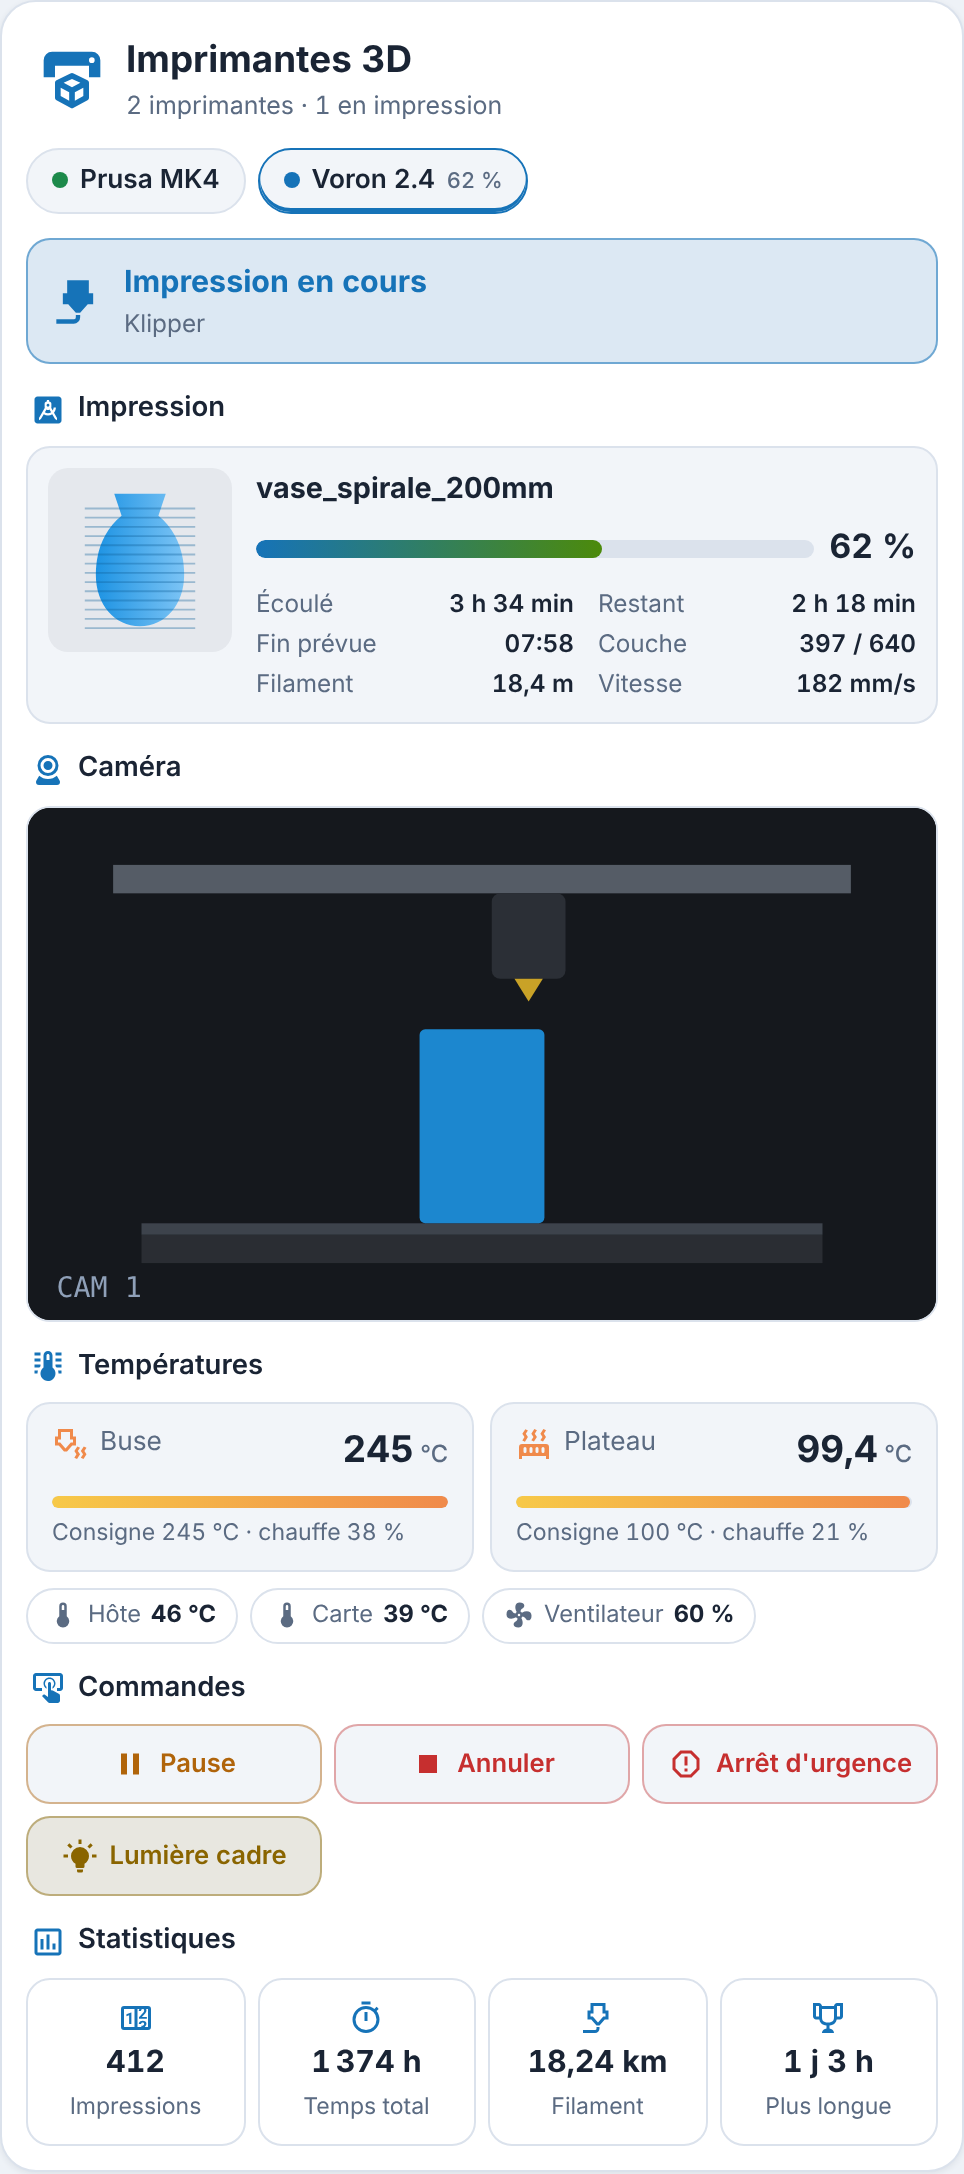
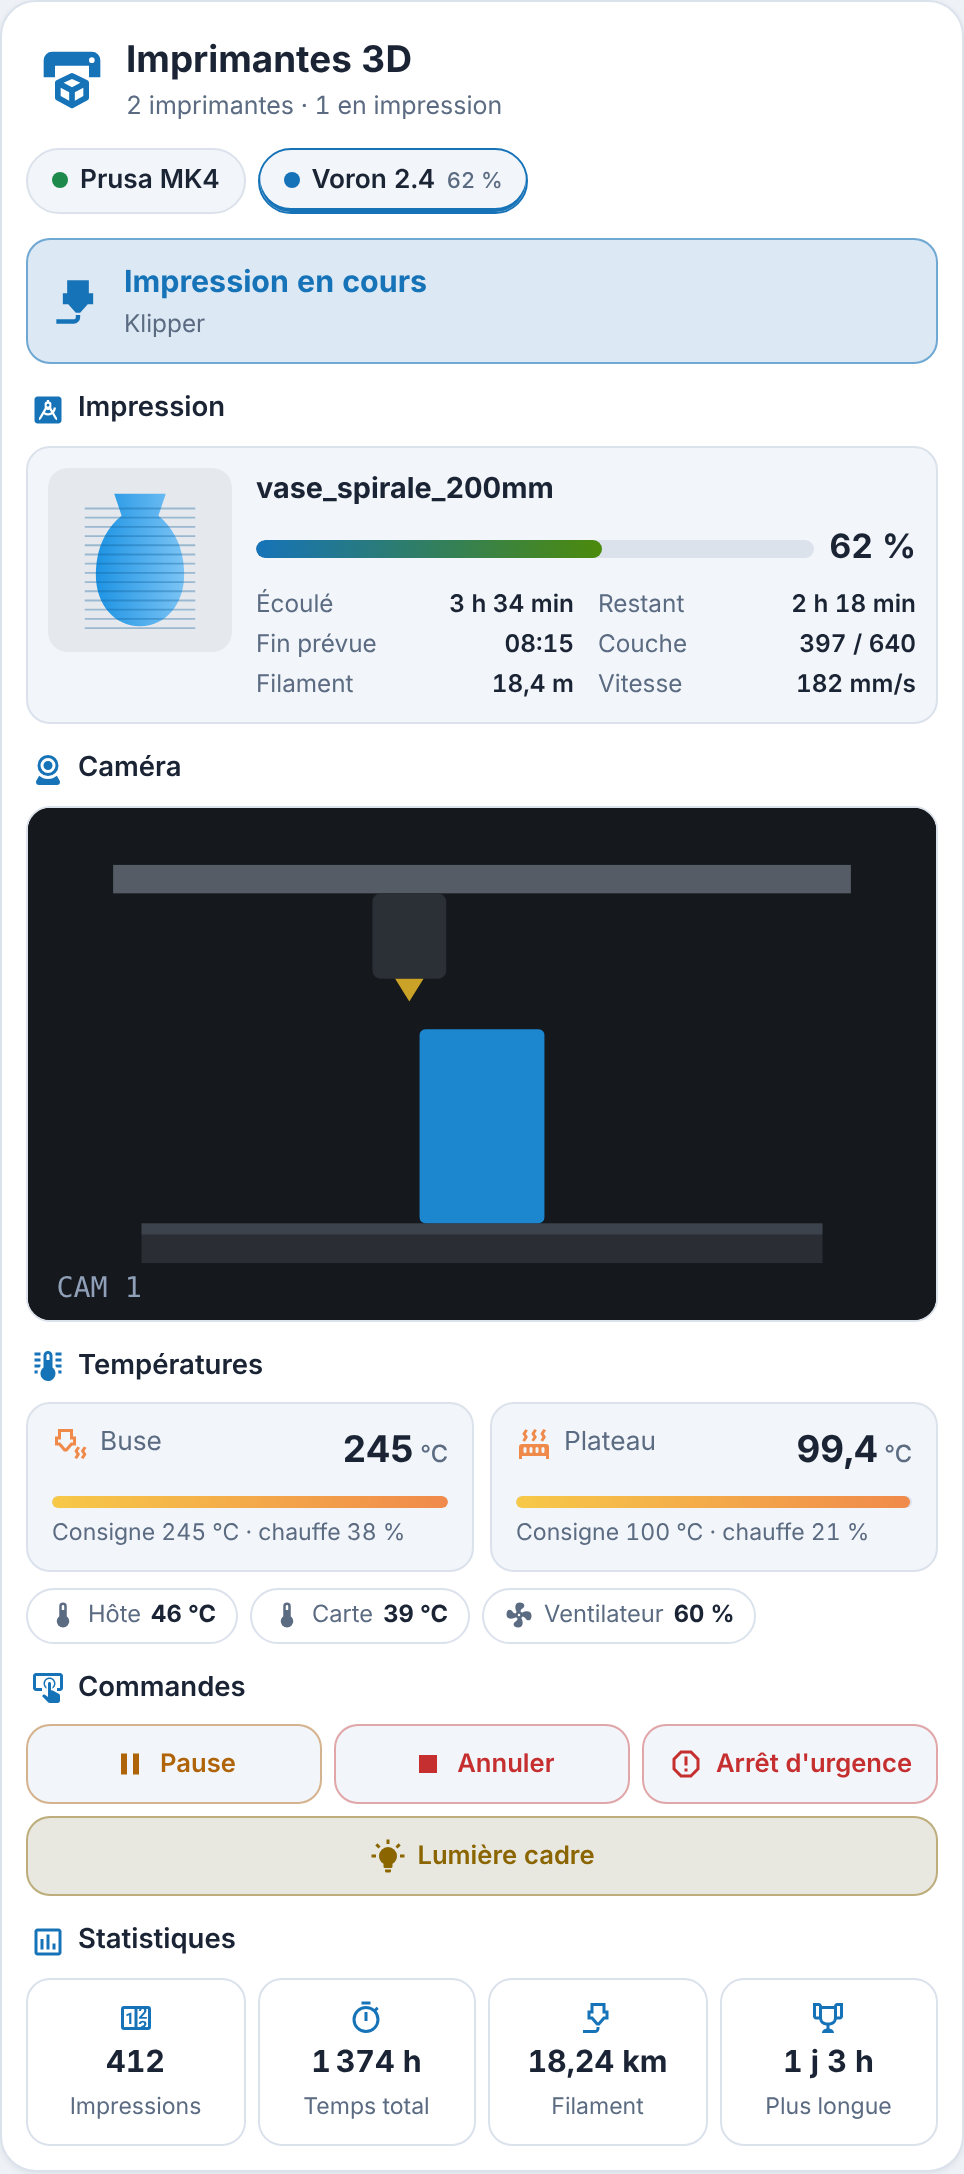
fix: lumières sur une ligne à part sous les commandes (0.1.4-beta)
Avec quatre boutons sur une ligne (Neptune 4 Max), les libellés passaient
sur deux lignes. Les lumières ont désormais leur propre ligne et les
libellés restent sur une seule ligne.

Claude-Session: https://claude.ai/code/session_01CSixJnFf4qBMac7uTfNvnW

diff --git a/printers-card.js b/printers-card.js
@@ -13,7 +13,7 @@
  */
 
 (() => {
-const CARD_VERSION = "0.1.3-beta";
+const CARD_VERSION = "0.1.4-beta";
 
 /* ------------------------------------------------------------- affichage */
 
@@ -463,7 +463,7 @@ class PrintersCard extends HTMLElement {
         const label = /frame/i.test(raw) ? "Lumière cadre" : /part|nozzle|tool/i.test(raw) ? "Lumière buse" : /light|led|lumi/i.test(raw) ? "Lumière" : raw.replace(/_/g, " ");
         return `<button class="pc-btn tog ${s.state === "on" ? "on" : ""}" data-toggle="${esc(id)}" title="${esc(label)} : ${s.state === "on" ? "éteindre" : "allumer"}"><ha-icon icon="${s.state === "on" ? "mdi:lightbulb-on" : "mdi:lightbulb-outline"}"></ha-icon><span>${esc(label)}</span></button>`;
       }).filter(Boolean);
-      const ctlHtml = ctl.length || outs.length ? `<div class="pc-sec"><div class="pc-h"><ha-icon icon="mdi:gesture-tap-button"></ha-icon>Commandes</div><div class="pc-btns">${ctl.join("")}${outs.join("")}</div></div>` : "";
+      const ctlHtml = ctl.length || outs.length ? `<div class="pc-sec"><div class="pc-h"><ha-icon icon="mdi:gesture-tap-button"></ha-icon>Commandes</div>${ctl.length ? `<div class="pc-btns">${ctl.join("")}</div>` : ""}${outs.length ? `<div class="pc-btns pc-outs">${outs.join("")}</div>` : ""}</div>` : "";
 
       // --- statistiques
       const tot = this._secs(r.total_time), lng = this._secs(r.longest), fil = this._num(r.total_filament), jobs = this._num(r.jobs);
@@ -559,6 +559,8 @@ header { display: flex; align-items: center; justify-content: space-between; gap
 .pc-btn { all: unset; box-sizing: border-box; cursor: pointer; display: flex; align-items: center; justify-content: center; gap: 6px; min-height: 40px; padding: 6px 10px;
   border-radius: 12px; border: 1px solid var(--med-line); background: var(--med-surface); font-size: .8rem; font-weight: 600; text-align: center; }
 .pc-btn ha-icon { --mdc-icon-size: 18px; flex: none; }
+.pc-btn span { white-space: nowrap; overflow: hidden; text-overflow: ellipsis; }
+.pc-outs { margin-top: 6px; }
 .pc-btn:hover { border-color: var(--med-blue); } .pc-btn:focus-visible { outline: 2px solid var(--med-blue); }
 .pc-btn.go { color: var(--med-down); border-color: color-mix(in srgb, var(--med-down) 45%, transparent); }
 .pc-btn.warn { color: var(--pc-warn); border-color: color-mix(in srgb, var(--pc-warn) 45%, transparent); }
